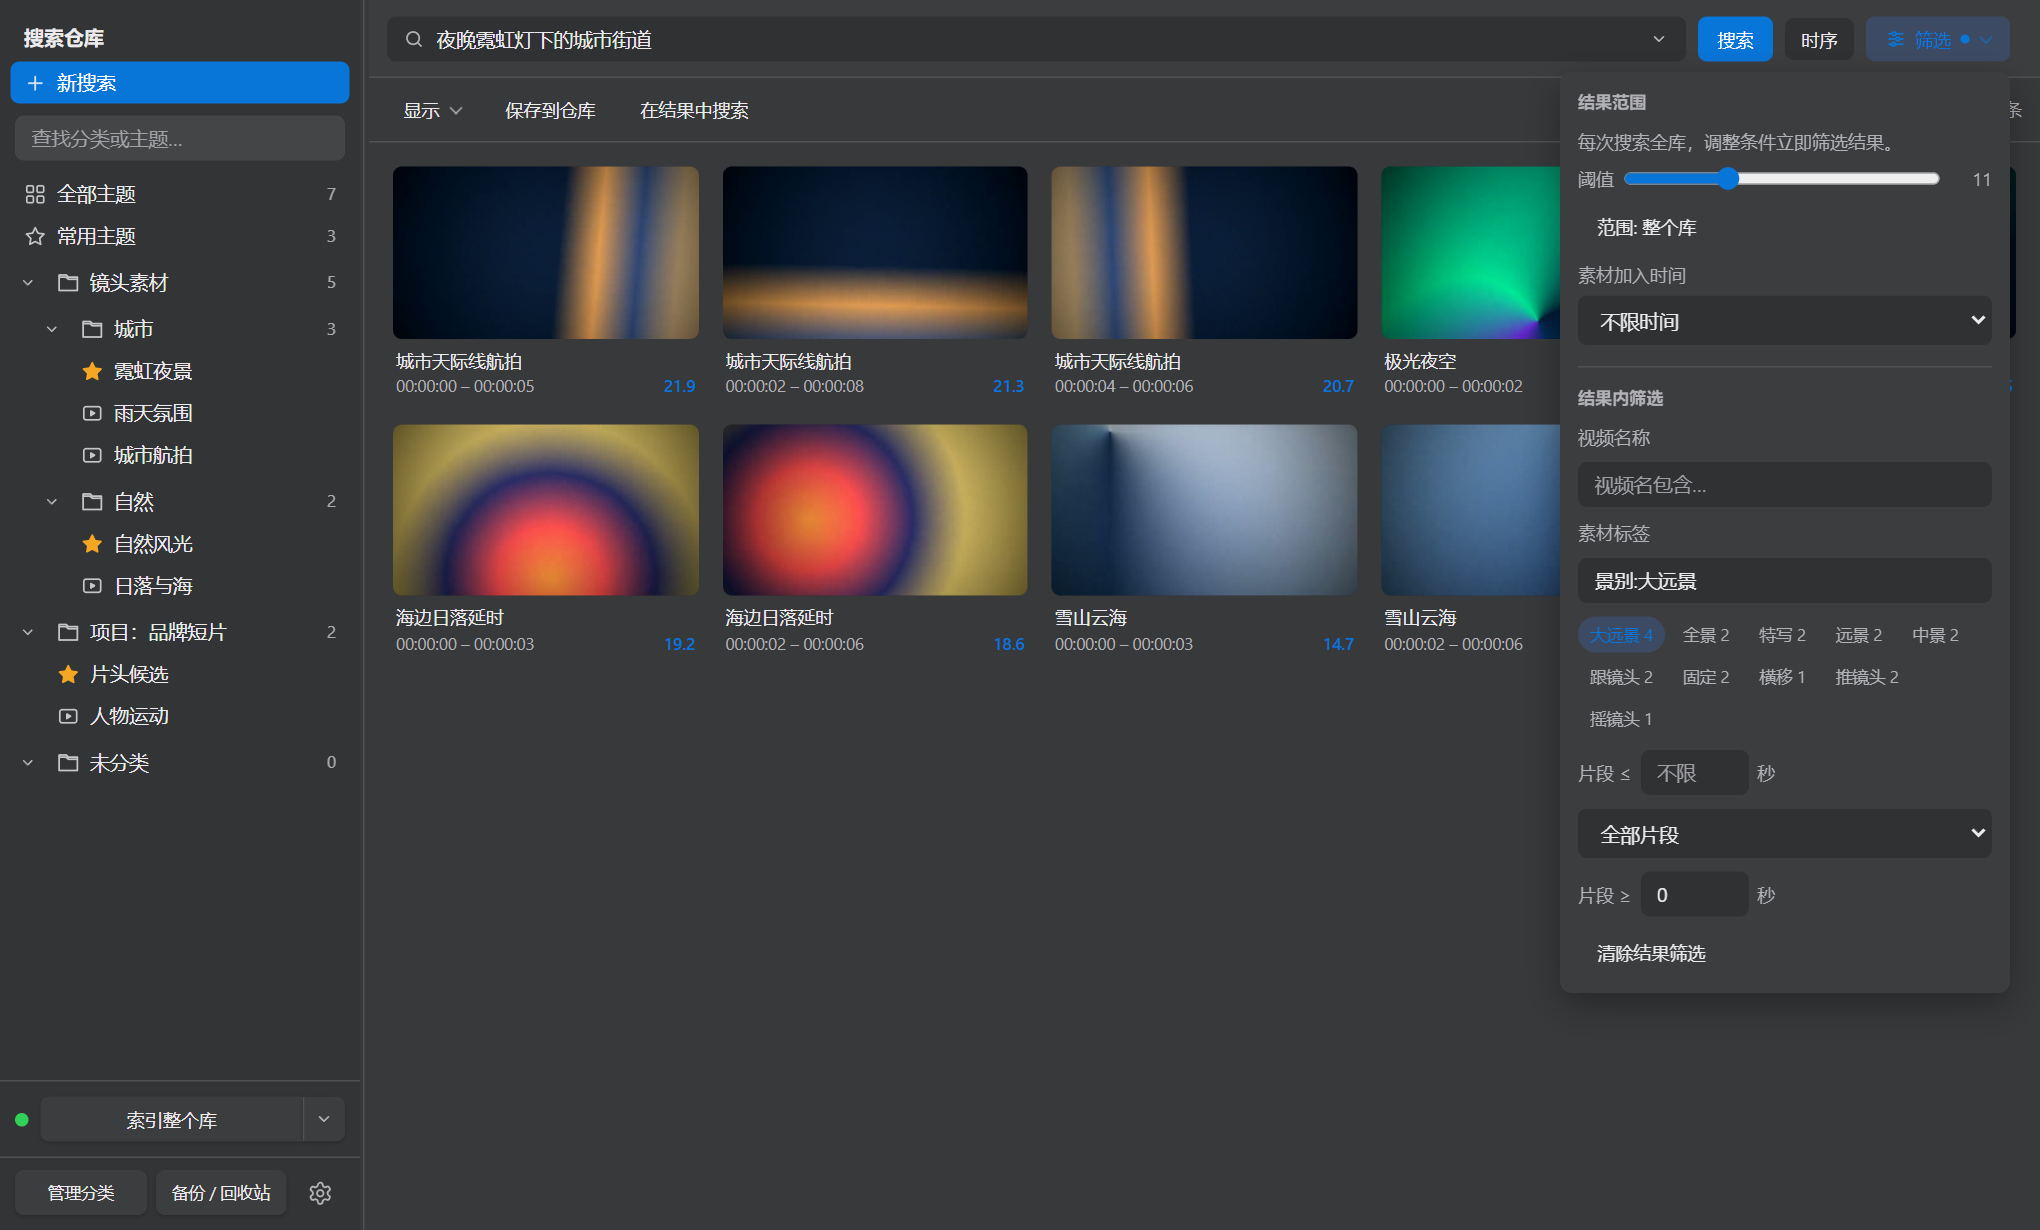
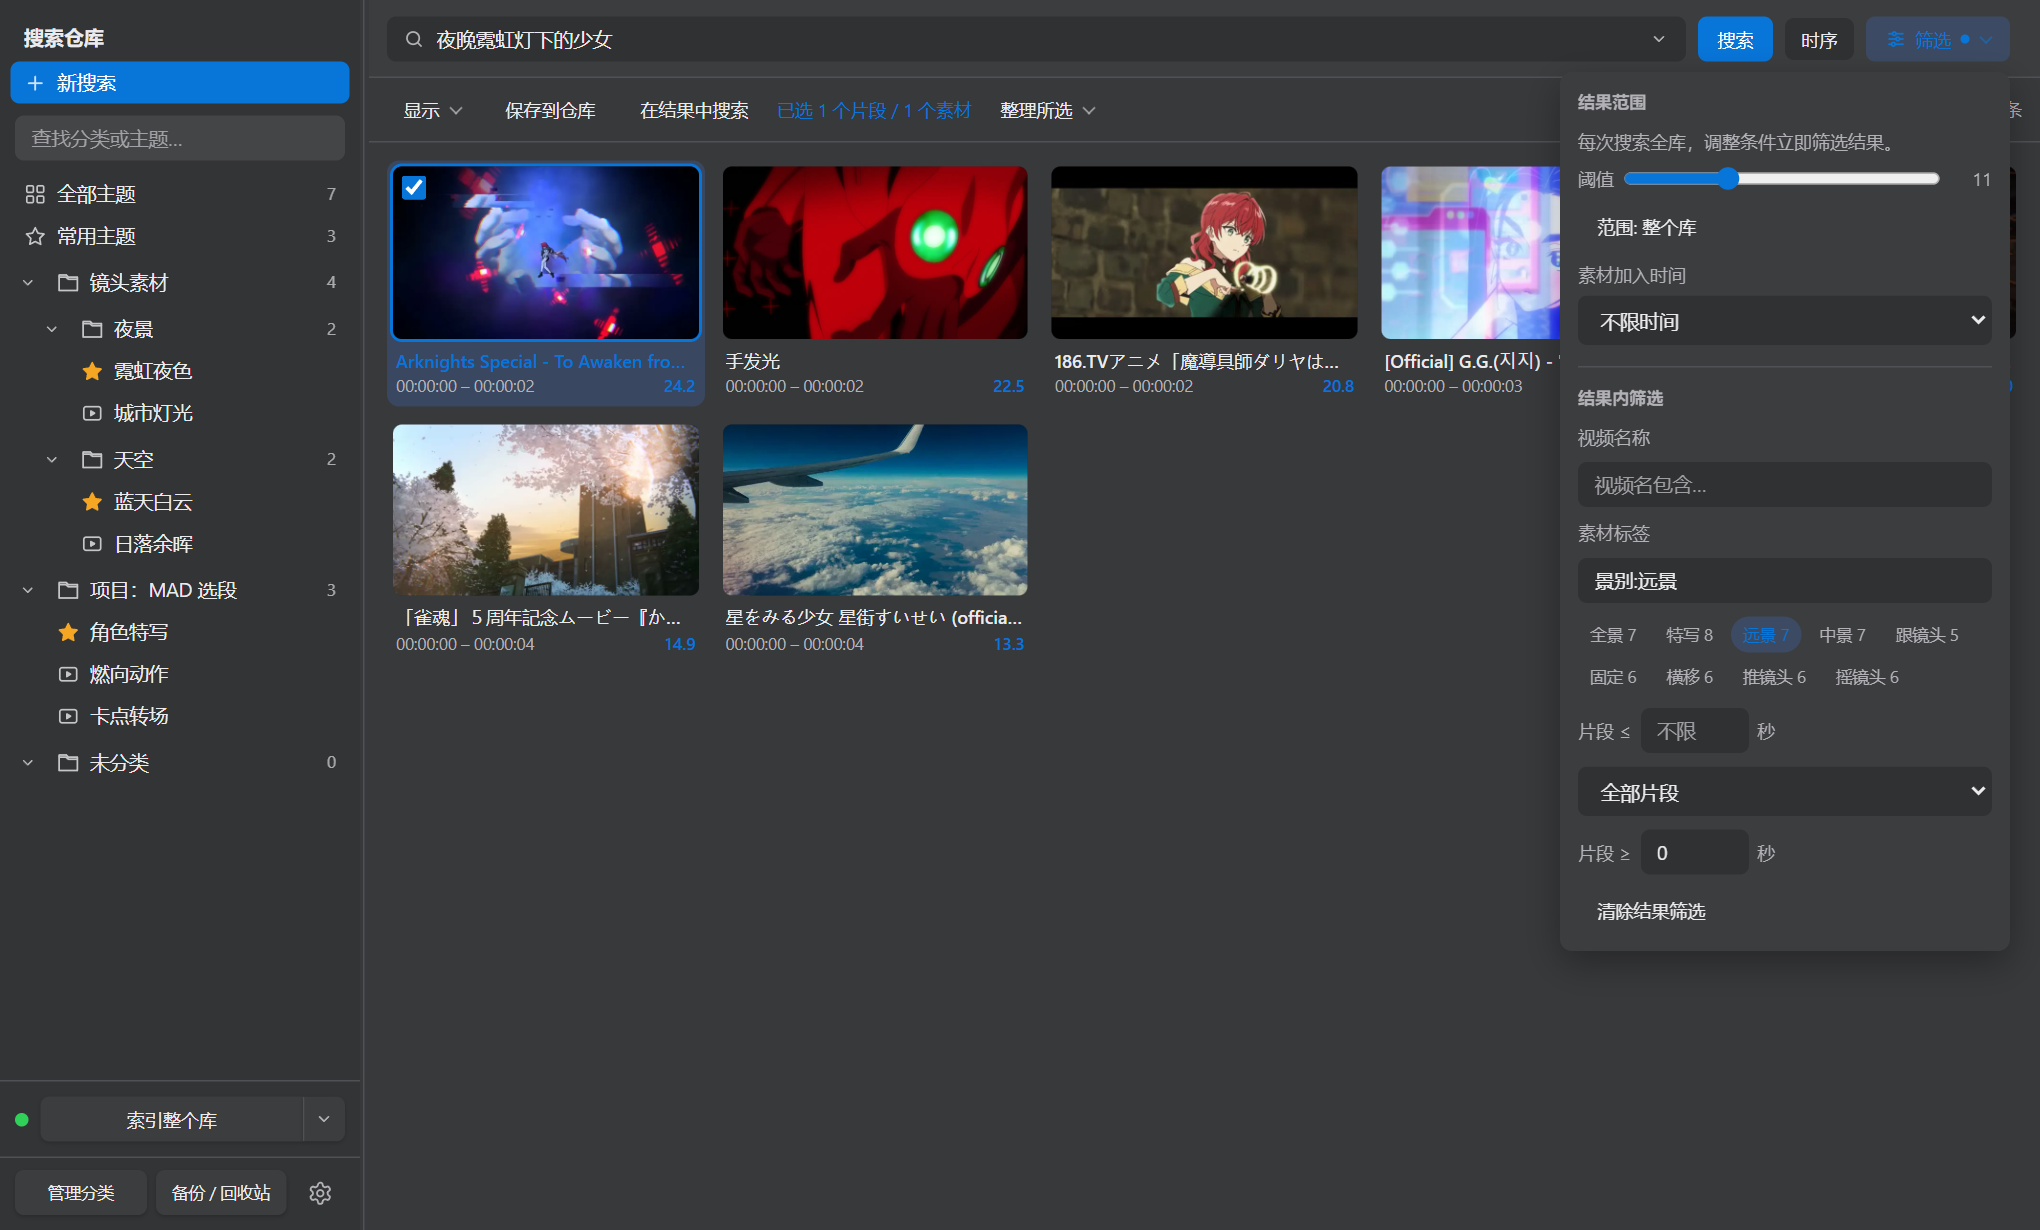
README 截图改用本地素材画面

diff --git a/README.md b/README.md
@@ -21,7 +21,7 @@
 
 ![搜索结果与右侧素材详情](docs/images/screenshots/search-preview.png)
 
-<sub>截图使用自动生成的示例画面与虚构标题，只为展示界面；不包含真实素材。</sub>
+<sub>截图画面取自作者本地素材库的缩略图，相似度分数、主题与分类为演示数据；画面版权归原作者所有。</sub>
 
 ## ✨ 功能一览
 
